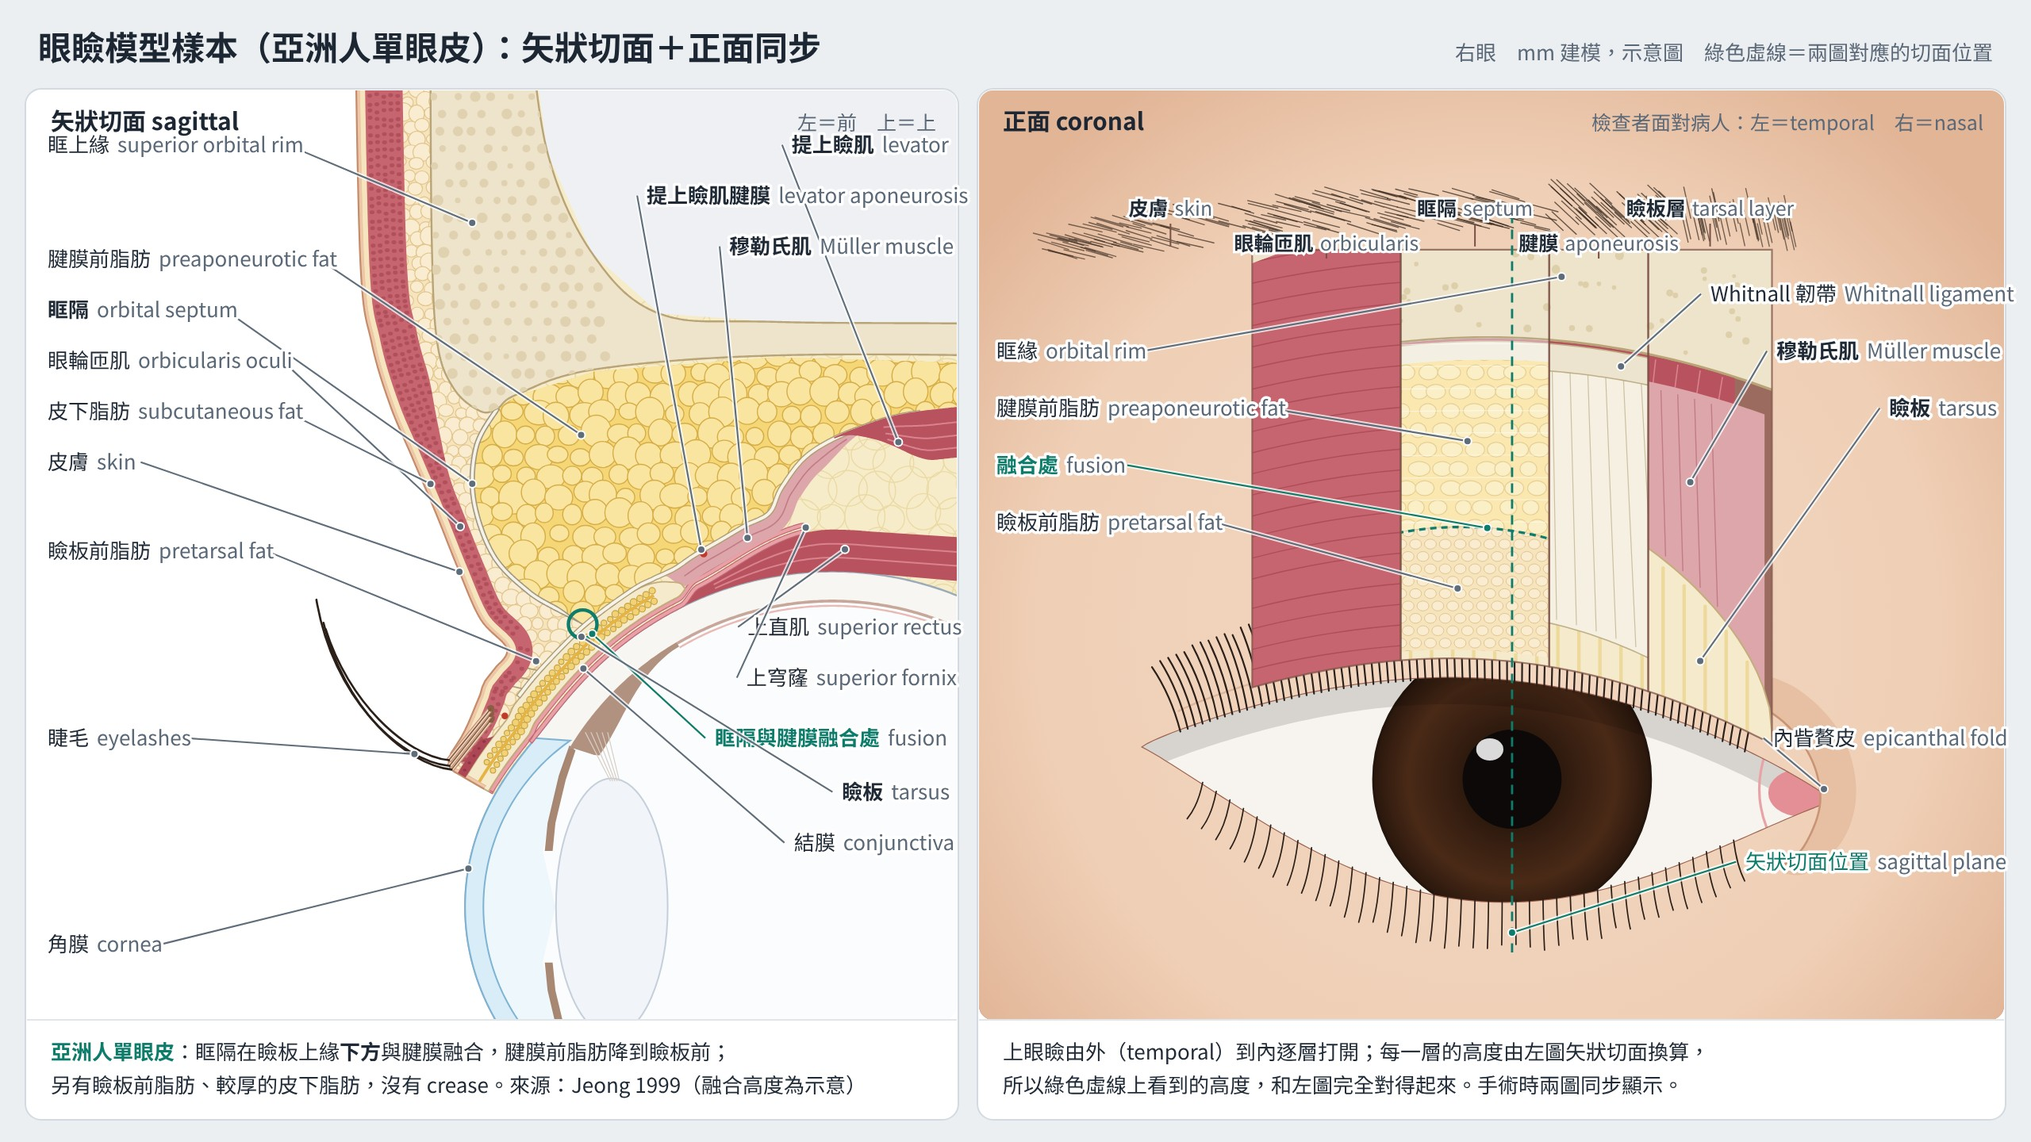
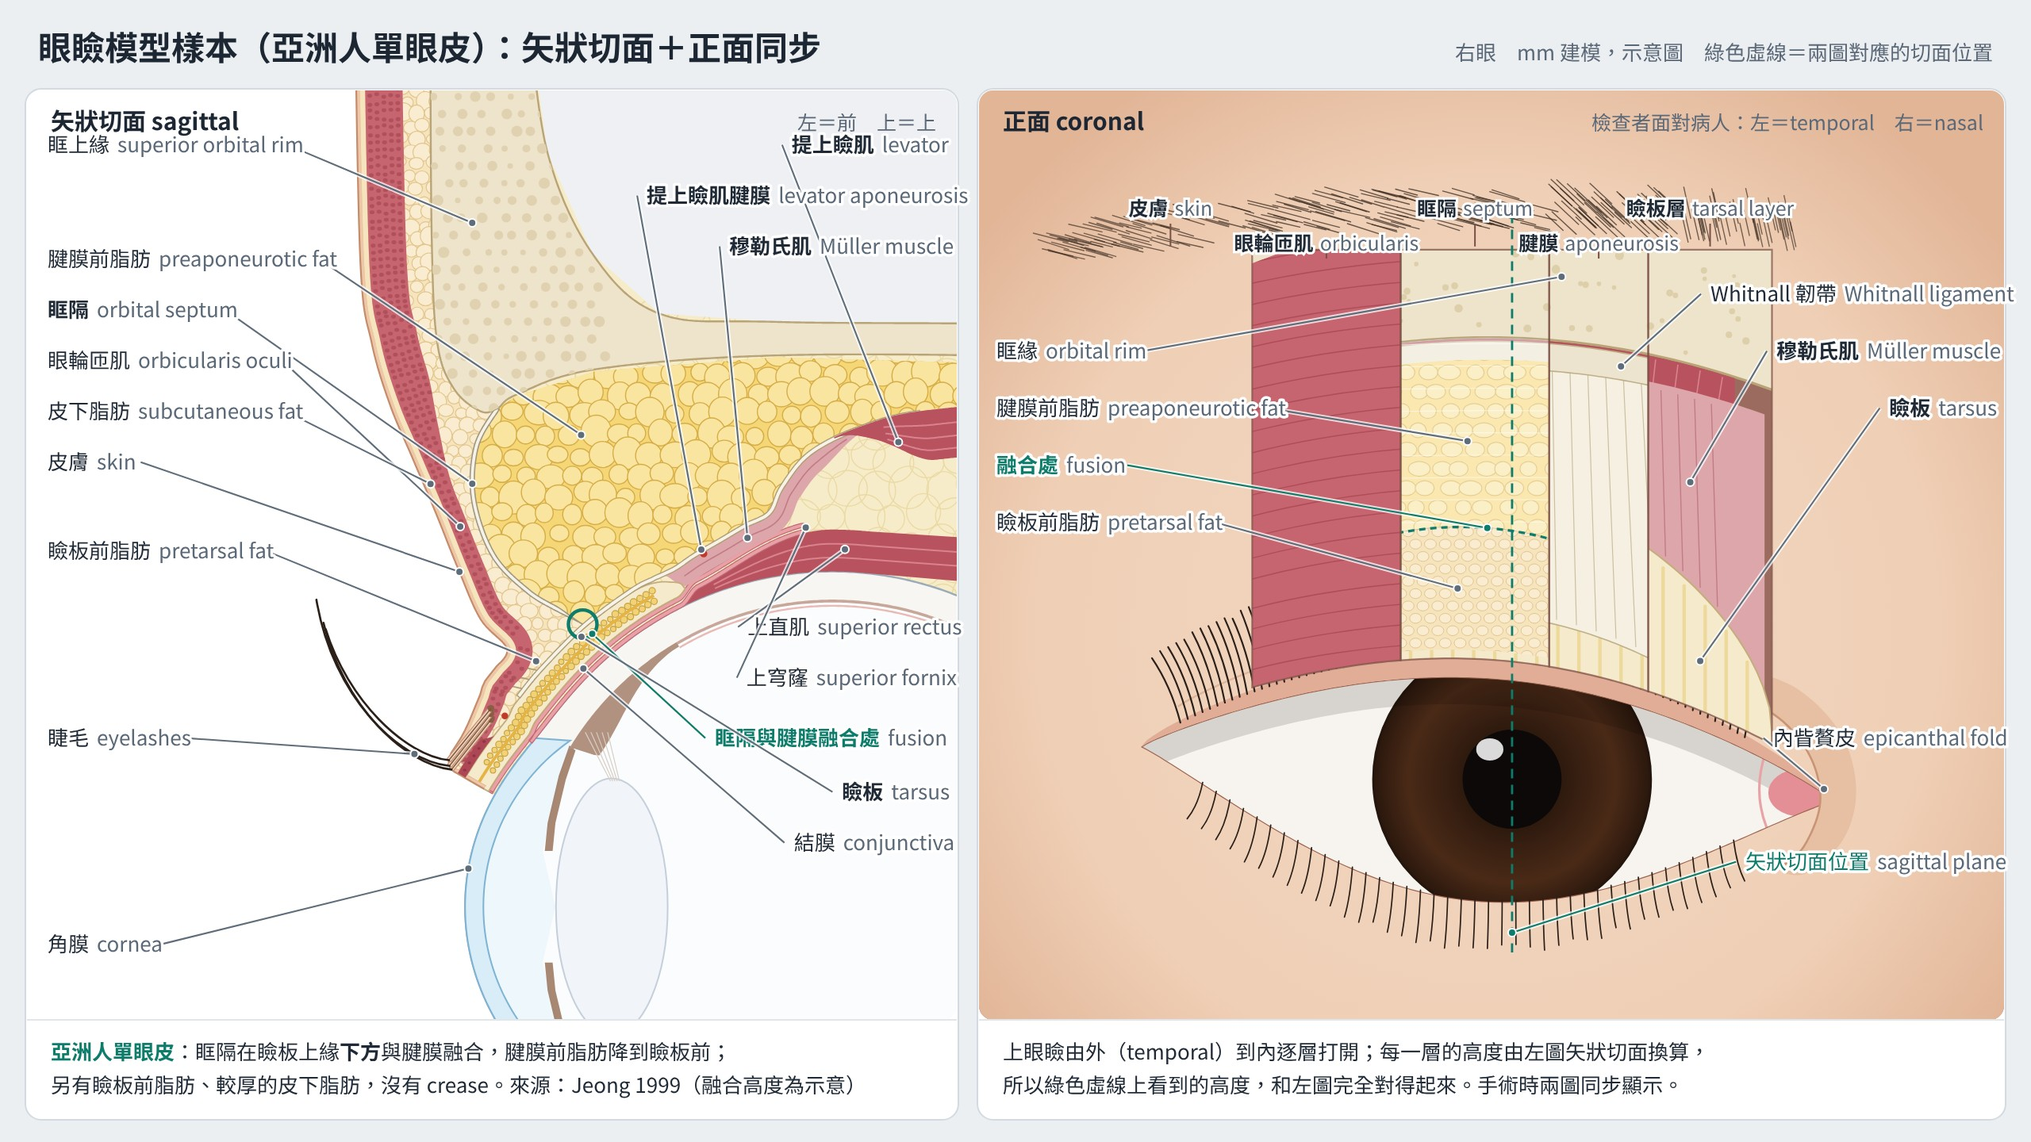
眼瞼模型加入 BLTR 全層切口；正面圖睫毛改長在前瞼緣，自我檢查改從睫毛線量
一、6-1 要比較 BLTR：矢狀切面加皮膚到結膜的全層切口，正面加實線皮膚切口與出血點，兩圖高度一致。
二、正面圖原本把睫毛畫在後瞼緣，BLTR 皮膚切口量起來離睫毛 4 mm，和旁白的 3 mm 不符。
改成睫毛長在前瞼緣（由矢狀切面換算，約高 1 mm）並畫出瞼緣帶；新增檢查從睫毛線量
（切口 3 mm、縫線出口在睫毛線正上方）。模型卡與通用的坑同步補上；樣本圖因睫毛線而小幅改變。
共 25 項檢查通過。

Changed region(s): [[0.5625, 0.5312, 0.875, 0.6562], [0.875, 0.6562, 0.9062, 0.6875]]

diff --git a/videos/models/eyelid/coronal.js b/videos/models/eyelid/coronal.js
@@ -36,6 +36,8 @@ const CORONAL = (() => {
   function draw(opt = {}) {
     const H = heights(opt.variant || 'asian'), o = [], A = {}, id = opt.id || 'cor', st = opt.state || {};
     const ev = st.evert || 0, inv = Math.max(0, -ev), out = Math.max(0, ev);
+    // lashes grow from the ANTERIOR lid margin, which projects ≈ 1 mm above the posterior edge (where the lid meets the globe and MRD1 is read)
+    const dAnt = LID.UF.at(0, LID.U_SKIN)[1] - LID.UF.at(0, 0)[1], lashY = x => Uy(x) + dAnt * prof(x, LC[0], MC[0], 0.6);
     const dT = H.tarTop - H.margin, dF = H.fus - H.margin;
     // ---------------- geometry of each structure (mm)
     const tarTopY = x => above(x, dT, -13.6, 10.6, 0.35);   // crescent: flat top, tapering ends
@@ -120,11 +122,12 @@ const CORONAL = (() => {
 
     // ---------------- layer 6: skin (Asian single eyelid: no crease), epicanthal fold, lashes, brow
     let s6 = `<path d="${face}" fill="url(#${id}_skin)" fill-rule="evenodd"/>`;
-    s6 += `<path d="${poly(xs(-13.5, 11).map(x => [x, Uy(x) - 0.75 - 0.3 * prof(x, -13.5, 11)]), false)}" fill="none" stroke="${C.skinS}" stroke-width="1.2" opacity="0.45" ${NS}/>`;
+    s6 += `<path d="${poly([...FX.map(x => [x, lashY(x)]), ...FX.slice().reverse().map(x => [x, Uy(x)])])}" fill="#dfa892" opacity="${(0.9 * (1 - inv)).toFixed(2)}"/>`;   // intermarginal strip
+    s6 += `<path d="${poly(xs(-13.5, 11).map(x => [x, lashY(x) - 0.6 - 0.3 * prof(x, -13.5, 11)]), false)}" fill="none" stroke="${C.skinS}" stroke-width="1.2" opacity="0.45" ${NS}/>`;
     // lashes: upper (up and outward), lower (down)
     if (out > 0) s6 += `<path d="${poly([...FX.map(x => [x, Uy(x) - 0.05]), ...FX.slice().reverse().map(x => [x, Uy(x) + 0.75 * out * prof(x, LC[0], MC[0], 0.6)])])}" fill="#d98a8f"/>`;
     if (inv > 0) s6 += `<path d="${poly([...FX.map(x => [x, Uy(x) - 0.05]), ...FX.slice().reverse().map(x => [x, Uy(x) + 0.45 * inv * prof(x, LC[0], MC[0], 0.6)])])}" fill="${C.skin2}"/>`;
-    for (let x = LC[0] + 1.6, k = 0; x < MC[0] - 3.4; x += 0.3, k++) { const y = Uy(x) + 0.45 * inv * prof(x, LC[0], MC[0], 0.6), lean = x / 14, l0 = 2.2 + 1.4 * prof(x, LC[0], MC[0], 0.8) * (0.8 + 0.4 * hash(k, 1));
+    for (let x = LC[0] + 1.6, k = 0; x < MC[0] - 3.4; x += 0.3, k++) { const y = lashY(x) + (0.45 - dAnt) * inv * prof(x, LC[0], MC[0], 0.6), lean = x / 14, l0 = 2.2 + 1.4 * prof(x, LC[0], MC[0], 0.8) * (0.8 + 0.4 * hash(k, 1));
       const dy = lerp(-1, 0.75, inv) - 0.12 * out, l = l0 * (1 - 0.25 * inv);
       s6 += `<path d="M${F([x, y + 0.1])}Q${F([x + lean * 0.4, y + dy * l * 0.55])} ${F([x + lean * (1.2 + 0.5 * out), y + dy * l])}" fill="none" stroke="${C.lash}" stroke-width="0.07" stroke-linecap="round"/>`; }
     for (let x = LC[0] + 2.5, k = 0; x < MC[0] - 4; x += 0.55, k++) { const y = Ly(x), lean = x / 14, l = 1.1 + 0.8 * prof(x, LC[0], MC[0]) * (0.7 + 0.5 * hash(k, 2));
@@ -143,6 +146,14 @@ const CORONAL = (() => {
     // ---------------- PLTR overlays (skin-side view)
     const dCut = LID.UF.at(LID.S_CUT, 0)[1] - LID.UF.at(0, 0)[1];               // incision height above the margin, from the sagittal model
     const cutY = x => Uy(x) + dCut * prof(x, -13.6, 10.6, 0.35);
+    // BLTR: skin incision 3 mm from the margin (projected height of the sagittal skin point), solid because it is on the skin side
+    const dSkin = LID.UF.at(LID.S_CUT, LID.uSkin(LID.VARIANTS[opt.variant || 'asian'], LID.S_CUT))[1] - LID.UF.at(0, 0)[1];
+    const skinCutY = x => Uy(x) + dSkin * prof(x, -13.6, 10.6, 0.35);
+    if (st.skinCut) { const xsI = xs(-12.4, 9.8, 0.2), n = Math.max(2, Math.round(xsI.length * Math.min(1, st.skinCut)));
+      o.push(`<path d="${poly(xsI.slice(0, n).map(x => [x, skinCutY(x)]), false)}" fill="none" stroke="#d23c3c" stroke-width="2.6" stroke-linecap="round" ${NS}/>`);
+      A.skinCut = [xsI[n - 1], skinCutY(xsI[n - 1])]; }
+    if (st.skinBleed) for (const [x, r] of [[-9, 0.45], [-5.5, 0.6], [-2, 0.4], [1.5, 0.55], [5, 0.45], [8, 0.35]]) o.push(`<circle cx="${x}" cy="${(skinCutY(x) + 0.35).toFixed(2)}" r="${r}" fill="#b3122b" opacity="${(0.8 * st.skinBleed).toFixed(2)}"/>`);
+    A.skinBleed = [-5.5, skinCutY(-5.5) + 0.35];
     if (st.incision) { const xsI = xs(-12.4, 9.8, 0.2), n = Math.max(2, Math.round(xsI.length * Math.min(1, st.incision)));
       o.push(`<path d="${poly(xsI.slice(0, n).map(x => [x, cutY(x)]), false)}" fill="none" stroke="#d23c3c" stroke-width="2" stroke-dasharray="7 5" ${NS} opacity="0.85"/>`); }
     A.incision = [6.5, cutY(6.5)];
@@ -150,15 +161,15 @@ const CORONAL = (() => {
     if (st.tarsus) { const TX = xs(-13.6, 10.6, 0.25), tp = [...TX.map(x => [x, Uy(x) - 0.15]), ...TX.slice().reverse().map(x => [x, Math.min(Uy(x) - 0.15, tarTopY(x))])];
       o.push(`<path d="${poly(tp)}" fill="${C.tar}" fill-opacity="${(0.25 * st.tarsus).toFixed(2)}" stroke="#8a7a52" stroke-width="1.4" stroke-dasharray="5 4" opacity="${st.tarsus}" ${NS}/>`);
       A.tarsusOutline = [5.5, (tarTopY(5.5) + Uy(5.5)) / 2 - 0.6]; }
-    if (st.marks) for (const x of SX) o.push(`<circle cx="${x}" cy="${(Uy(x) - 1.0).toFixed(2)}" r="0.32" fill="#5b3fa0" opacity="${st.marks}"/>`);
+    if (st.marks) for (const x of SX) o.push(`<circle cx="${x}" cy="${(lashY(x) - 0.7).toFixed(2)}" r="0.32" fill="#5b3fa0" opacity="${st.marks}"/>`);
     if (st.spacing) { const y = Uy(0.5) - 4.2; o.push(`<g opacity="${st.spacing}" stroke="#0e7c6b" fill="none"><path d="M${SX[0]} ${y}H${SX[2]}" stroke-width="1.8" ${NS}/>${SX.map(x => `<path d="M${x} ${y - 0.5}v1" stroke-width="1.8" ${NS}/>`).join('')}</g>`); A.spacing = [SX[1], Uy(0.5) - 4.2]; }
     if (st.sutures) { const t = st.tight || 0, op = Math.min(1, st.sutures);
-      for (const x of SX) { const E = [x, Uy(x) - 0.75 + 0.25 * t], w = lerp(0.95, 0.38, t);
+      for (const x of SX) { const E = [x, lashY(x) - 0.6 + 0.25 * t], w = lerp(0.95, 0.38, t);   // exit just above the lash line
         for (const sg of [-1, 1]) o.push(`<path d="M${F([x + sg * w, cutY(x) - 0.35])}L${F([x + sg * w * 0.45, E[1]])}" stroke="#2463eb" stroke-width="1.6" stroke-dasharray="4 3" ${NS} opacity="${op}"/>`);
         o.push(`<path d="M${F([x - w * 0.45, E[1]])}L${F([x + w * 0.45, E[1]])}" stroke="#2463eb" stroke-width="2.4" stroke-linecap="round" ${NS} opacity="${op}"/><circle cx="${x}" cy="${E[1].toFixed(2)}" r="${(0.2 + 0.12 * t).toFixed(2)}" fill="#2463eb" opacity="${op}"/>`);
         if (t > 0.5) for (const sg of [-1, 1]) o.push(`<path d="M${F(E)}l${(sg * 0.5).toFixed(2)} ${(-0.7).toFixed(2)}" stroke="#2463eb" stroke-width="1.8" stroke-linecap="round" ${NS} opacity="${(op * ss(0.5, 0.9, t)).toFixed(2)}"/>`); }
-      A.suture = [SX[0], Uy(SX[0]) - 1.2]; }
-    A.margin = [-4, Uy(-4)]; A.lashes = [-10.5, Uy(-10.5) - 1.6];
+      A.suture = [SX[0], lashY(SX[0]) - 1.0]; A.sutureExit = [SX[1], lashY(SX[1]) - 0.6 + 0.25 * t]; }
+    A.margin = [-4, Uy(-4)]; A.lashes = [-10.5, lashY(-10.5) - 1.6];
 
     // ---------------- cut edges of the windows
     for (const w of wins) o.push(`<path d="${poly(w.poly)}" fill="none" stroke="${C.cut}" stroke-width="1.1" ${NS} opacity="0.7"/>`);
@@ -167,7 +178,7 @@ const CORONAL = (() => {
     A.section = [0, H.arc - 4.6];
     const defs = `<defs><radialGradient id="${id}_iris" cx="0.5" cy="0.5" r="0.5"><stop offset="0.3" stop-color="#2a170d"/><stop offset="0.75" stop-color="#4a2a17"/><stop offset="1" stop-color="#2a170d"/></radialGradient>
       <radialGradient id="${id}_skin" gradientUnits="userSpaceOnUse" cx="-1" cy="-6" r="26"><stop offset="0" stop-color="#f3d8c2"/><stop offset="0.7" stop-color="${C.skin}"/><stop offset="1" stop-color="#e2b597"/></radialGradient></defs>`;
-    return { svg: defs + o.join(''), A, Uy, fusY, tarTopY, whitY, arcusY, cutY, SX };
+    return { svg: defs + o.join(''), A, Uy, lashY, fusY, tarTopY, whitY, arcusY, cutY, skinCutY, SX };
   }
   // ---------------------------------------------------------------- everted upper lid (the surgeon's view in PLTR)
   // The lid is flipped: tarsal conjunctiva faces the viewer, the lid margin with its lashes is on top, the fold (superior tarsal

diff --git a/videos/models/eyelid/check.js b/videos/models/eyelid/check.js
@@ -56,5 +56,13 @@ const toGlobe = p => { const ph = Math.atan2(p[1], p[0]); return Math.hypot(p[0]
 // 11. suture spacing (narration: 中央到內側、中央到外側的距離差在 2 mm 以內)
 { const X = CORONAL.draw({ state: { sutures: 1 } }).SX, d = Math.abs((X[1] - X[0]) - (X[2] - X[1]));
   ok(d <= 2, `sutures: central–temporal ${(X[1] - X[0]).toFixed(1)} mm vs central–nasal ${(X[2] - X[1]).toFixed(1)} mm, difference ${d.toFixed(1)} ≤ 2 mm`); }
+// 12. BLTR skin incision: the same height in both views (the skin point 3 mm from the margin, projected)
+{ const c = CORONAL.draw({ state: { skinCut: 1 } }), dm = c.Uy(0) - UF.at(0, 0)[1], ys = UF.at(LID.S_CUT, LID.uSkin(LID.VARIANTS.asian, LID.S_CUT))[1];
+  ok(Math.abs(c.skinCutY(0) - dm - ys) < 0.3, `BLTR skin incision height: coronal ${(c.skinCutY(0) - dm).toFixed(2)} vs sagittal ${ys.toFixed(2)}`);
+  ok(!/NaN|undefined/.test(LID.draw({ state: { curl: 1, bltr: 1, ghostCut: 1 } }).svg + CORONAL.draw({ state: { skinCut: 1, skinBleed: 1 } }).svg), 'BLTR states: no NaN/undefined in the SVG'); }
+// 13. what the viewer measures on the skin-side view: from the lash line (narration: 「從皮膚面離瞼緣 3 mm」「從睫毛線正上方的皮膚穿出」)
+{ const c = CORONAL.draw({ state: { skinCut: 1, sutures: 1 } }), d = c.lashY(0) - c.skinCutY(0), ex = c.lashY(0.5) - c.A.sutureExit[1];
+  ok(Math.abs(d - LID.S_CUT) < 0.3, `skin view: BLTR skin incision ${d.toFixed(2)} mm above the lash line (narration 3 mm)`);
+  ok(ex > 0 && ex < 1, `skin view: suture exits ${ex.toFixed(2)} mm above the lash line (just above it)`); }
 console.log(fail ? `${fail} check(s) failed` : 'all checks passed');
 process.exit(fail ? 1 : 0);

diff --git a/videos/models/eyelid/lid.js b/videos/models/eyelid/lid.js
@@ -336,6 +336,11 @@ const LID = (() => {
     // 13 surgical overlays: dissection plane, incision, suture
     if (st.plane) { const P0 = [], P1 = []; for (let q = 0.7; q <= S_CUT; q += 0.05) { P0.push(DP.at(q, U_TAR)); P1.push(DA.at(q, U_TAR + 0.02)); }
       o.push(`<path d="${poly([...P0, ...P1.reverse()])}" fill="#0e7c6b" opacity="${(0.42 * st.plane).toFixed(2)}"/>`); A.plane = DP.at(2.0, U_TAR + 0.06); }
+    // BLTR: full-thickness incision from the skin (3 mm from the margin) through to the conjunctiva; ghostCut = where PLTR would cut (posterior lamella only)
+    if (st.bltr) { const sk0 = DA.at(S_CUT, uSkin(V, S_CUT)), cj = DP.at(S_CUT, 0), e = lerpP(sk0, cj, Math.min(1, st.bltr));
+      o.push(`<path d="M${F(sk0)}L${F(e)}" stroke="#d23c3c" stroke-width="2.8" stroke-linecap="round" ${NS}/>`); A.bltrSkin = sk0; A.bltrMid = lerpP(sk0, cj, 0.5); }
+    if (st.ghostCut) o.push(`<path d="M${F(DP.at(S_CUT, 0))}L${F(DP.at(S_CUT, U_TAR))}" stroke="#d23c3c" stroke-width="2" stroke-dasharray="3 3" opacity="${st.ghostCut}" ${NS}/>`);
+    if (st.ghostCut || st.bltr) A.postCut = DP.at(S_CUT, U_TAR * 0.5);
     if (st.cut) { const c0 = DP.at(S_CUT - (cutDone ? 0.02 : 0), 0), c1 = DP.at(S_CUT - (cutDone ? 0.02 : 0), U_TAR), e = lerpP(c0, c1, Math.min(1, st.cut));
       o.push(`<path d="M${F(c0)}L${F(e)}" stroke="#d23c3c" stroke-width="2.6" stroke-linecap="round" ${NS}/>`);
       if (cutDone) o.push(`<path d="M${F(DP.at(S_CUT + 0.02, 0))}L${F(DP.at(S_CUT + 0.02, U_TAR))}" stroke="#d23c3c" stroke-width="2.6" stroke-linecap="round" ${NS}/>`);

diff --git a/videos/models/eyelid/CARD.md b/videos/models/eyelid/CARD.md
@@ -3,7 +3,7 @@
 照 `videos/models/MODEL-CARD-TEMPLATE.md` 的欄位寫。查不到的寫「[待核對出處]」，文獻沒給數值的寫「示意」。
 
 ## 適用的手術
-- 已做：PLTR（上眼瞼 margin rotation，Trabut 型）。
+- 已做：PLTR（上眼瞼 margin rotation，Trabut 型）；BLTR 只做到全層切口（對照用）。
 - 之後可用：entropion／ectropion、ptosis、雙眼皮、lateral tarsal strip、眼瞼腫瘤重建。下眼瞼還沒建，做這些之前要先補。
 
 ## 兩個同步視角與方位慣例
@@ -17,6 +17,7 @@
 ## 座標（手術的語言）
 - 矢狀切面以眼球中心為原點，單位 mm，左＝前、上＝上。眼瞼裡的每個組織用兩個數字定位：沿著眼球表面、距瞼緣幾 mm（s），以及離眼瞼後表面多深（u）。瞼緣內轉、瞼板切開後轉出，所有組織都在同一套座標上一起變形；「切口離瞼緣 3 mm」就直接是 s＝3。
 - 正面圖以角膜反光點為原點。上眼瞼每個結構在中央那條線上的高度，是把矢狀切面的位置投影到正面得來的，往內外眥兩側再依形狀變窄。瞼板繞著眼球彎，所以正面看起來比 10 mm 矮；這是投影造成的，不是畫錯。
+- 正面圖的瞼緣有兩條線：後瞼緣（眼瞼和眼球交接處，MRD1 量到這裡），以及約高 1 mm 的前瞼緣（睫毛長在這裡），兩者之間是瞼緣帶。旁白說「離瞼緣幾 mm」時，觀眾在正面圖上會從睫毛線量，所以檢查也從睫毛線量。
 - 翻瞼視角的瞼板高度與切口位置，也由矢狀切面換算（瞼板翻開後稍微往後傾，乘 0.92，示意）。
 
 ## 尺度與放大層級
@@ -36,7 +37,8 @@
 
 ## 手術狀態（`state` 參數，0 到 1 表示進行到哪裡）
 - 矢狀切面：`curl` 疤痕性內翻（瞼緣以後瞼緣角為軸往內滾，瞼板往前弓起，睫毛被擋在角膜上）、`cut` 從結膜面離瞼緣 3 mm 切穿瞼板、`plane` 前層和瞼緣側瞼板之間的分離平面（前層實際讓開約 0.35 mm，示意）、`k` 瞼緣側瞼板轉出、`over` 額外往外轉的角度、`tuck` 上方瞼板的切緣被拉下塞到瞼緣側瞼板前方、`suture` 縫線、`scar` 結膜疤痕。
-- 正面（皮膚面）：`evert` 瞼緣內轉到外翻（內轉時睫毛蓋到角膜上，外翻時露出一條後瞼緣）、`incision` 切口（在結膜面，所以畫虛線）、`tarsus` 瞼板範圍、`marks` 縫線標記、`spacing` 間距、`sutures` 三組縫線、`tight` 綁緊程度。
+- 矢狀切面（BLTR）：`bltr` 從皮膚面離瞼緣 3 mm 全層切到結膜；`ghostCut` PLTR 的切口位置（虛線，對照用）。
+- 正面（皮膚面）：`evert` 瞼緣內轉到外翻（內轉時睫毛蓋到角膜上，外翻時露出一條後瞼緣）、`incision` 切口（在結膜面，所以畫虛線）、`skinCut` BLTR 的皮膚切口（實線）、`skinBleed` 皮膚切口出血、`tarsus` 瞼板範圍、`marks` 縫線標記、`spacing` 間距、`sutures` 三組縫線、`tight` 綁緊程度。
 - 翻瞼（`CORONAL.drawEverted`）：`scar` 疤痕程度、`incision` 切口（由外側往內側畫）、`incWavy` 切口不直、`incShort` 切口太短、`ends` 兩端、`lenArrow` 長度、`bleed` 出血、`notch` 瞼緣缺口、`nasalShort` 鼻側瞼板較短。
 - 腱膜止點從瞼緣上方 3.3 mm 開始，避開 PLTR 的切口。
 - 內翻 55°、過度矯正角度、塞入距離都是示意值。
@@ -56,11 +58,11 @@
 | 切口總長 | 模型 23 mm（旁白：至少 20 mm） | PLTR 影片腳本（Gower 2019；Habtamu 2017；Rajak 2011） |
 | 三組縫線間距差 | 模型 0 mm（旁白：≤ 2 mm） | PLTR 影片腳本（Habtamu 2017） |
 
-## 必寫的檢查（`check.js`，目前 21 項）
+## 必寫的檢查（`check.js`，目前 25 項）
 - 解剖：MRD1 約 4 mm、瞼板沿眼瞼後表面 10 mm、亞洲人融合點在瞼板上緣下方而白人在上方、亞洲人眶隔一律在皮膚後方 ≥ 0.8 mm。
-- 兩個視角一致：正面的瞼板上緣、融合點、Whitnall 高度和矢狀切面一致；PLTR 切口高度在正面和矢狀切面一致；翻瞼視角的切口位置比例和矢狀切面一致。
+- 兩個視角一致：正面的瞼板上緣、融合點、Whitnall 高度和矢狀切面一致；PLTR 切口、BLTR 皮膚切口的高度在正面和矢狀切面一致；翻瞼視角的切口位置比例和矢狀切面一致。
 - 手術：內翻時睫毛碰到角膜、矯正後睫毛離開角膜 > 3 mm、上方瞼板切緣在瞼緣側瞼板前方。
-- 旁白數字：切口總長 ≥ 20 mm、三組縫線間距差 ≤ 2 mm。
+- 旁白數字：切口總長 ≥ 20 mm、三組縫線間距差 ≤ 2 mm；正面圖從睫毛線量，BLTR 皮膚切口在 3 mm、縫線出口在睫毛線正上方 1 mm 以內。
 - 畫面沒有 NaN／undefined。
 
 ## 已知的坑（眼瞼專屬；通用的坑見 `videos/models/README.md`）
@@ -68,6 +70,7 @@
 - **內翻時的睫毛**：單純跟著瞼緣旋轉，睫毛只會轉到朝前方，看起來不像倒睫。要讓睫毛被角膜擋住，再沿著角膜表面走。
 - **正面圖的前後順序**：眶緣骨頭在 levator 前面。眶緣以上只會露出骨頭，深層結構要裁在眶口以內。
 - **會逐步畫出的切口**：翻瞼視角的切口由外側往內側畫，標籤要指向目前的前端（`evIncTip`）。
+- **睫毛長在前瞼緣**：正面圖原本把睫毛畫在後瞼緣，結果 BLTR 皮膚切口看起來離睫毛 4 mm、和旁白的 3 mm 不符。改成睫毛長在前瞼緣（約高 1 mm），中間畫瞼緣帶。
 
 ## 檔案
 - `lid.js`：矢狀切面。畫出眶上緣與 roof、眶隔、腱膜前脂肪、levator 與 aponeurosis、Müller、瞼板與 meibomian gland、上穹窿、superior rectus、眼輪匝肌、睫毛與毛囊、gray line、MCJ、marginal 與 peripheral arcade、眼球（角膜、虹膜、水晶體、睫狀體）。

diff --git a/videos/models/README.md b/videos/models/README.md
@@ -58,6 +58,7 @@
 - **會移動或逐步出現的東西**：標籤定位點要用這一刻的位置（例如逐步畫出的切口前端、睫毛曲線上的點），否則引線會指到空白處或畫面外。
 - **標籤排版**：文字壓在圖上要加白邊。上下相鄰的兩個標籤，文字較長的放上面，引線才不會交叉。
 - **太細的東西看不到**：例如 0.1 mm 的分離平面，在影片解析度下看不到。要讓組織實際讓開到 0.3 mm 以上，或用放大框，並標成示意。
+- **距離要從觀眾量得到的參考點量**：旁白說「離瞼緣 3 mm」，觀眾在正面圖會從睫毛線量，不是從看不清楚的後瞼緣量；檢查也要用同一個參考點。眼瞼曾因此差了 1 mm。其他類別同理，例如「距角膜緣幾 mm」要從畫面上看得到的角膜緣量。
 - **改 A 壞了 B**：例如為了 4-2 加大分離空間，4-4 也跟著變了。一定要跑參考圖比對才看得出來。
 - **參考圖比對要比亮度**：JPEG 會降低顏色解析度，比顏色的話，細的彩色線條每次都會被誤報。
 
